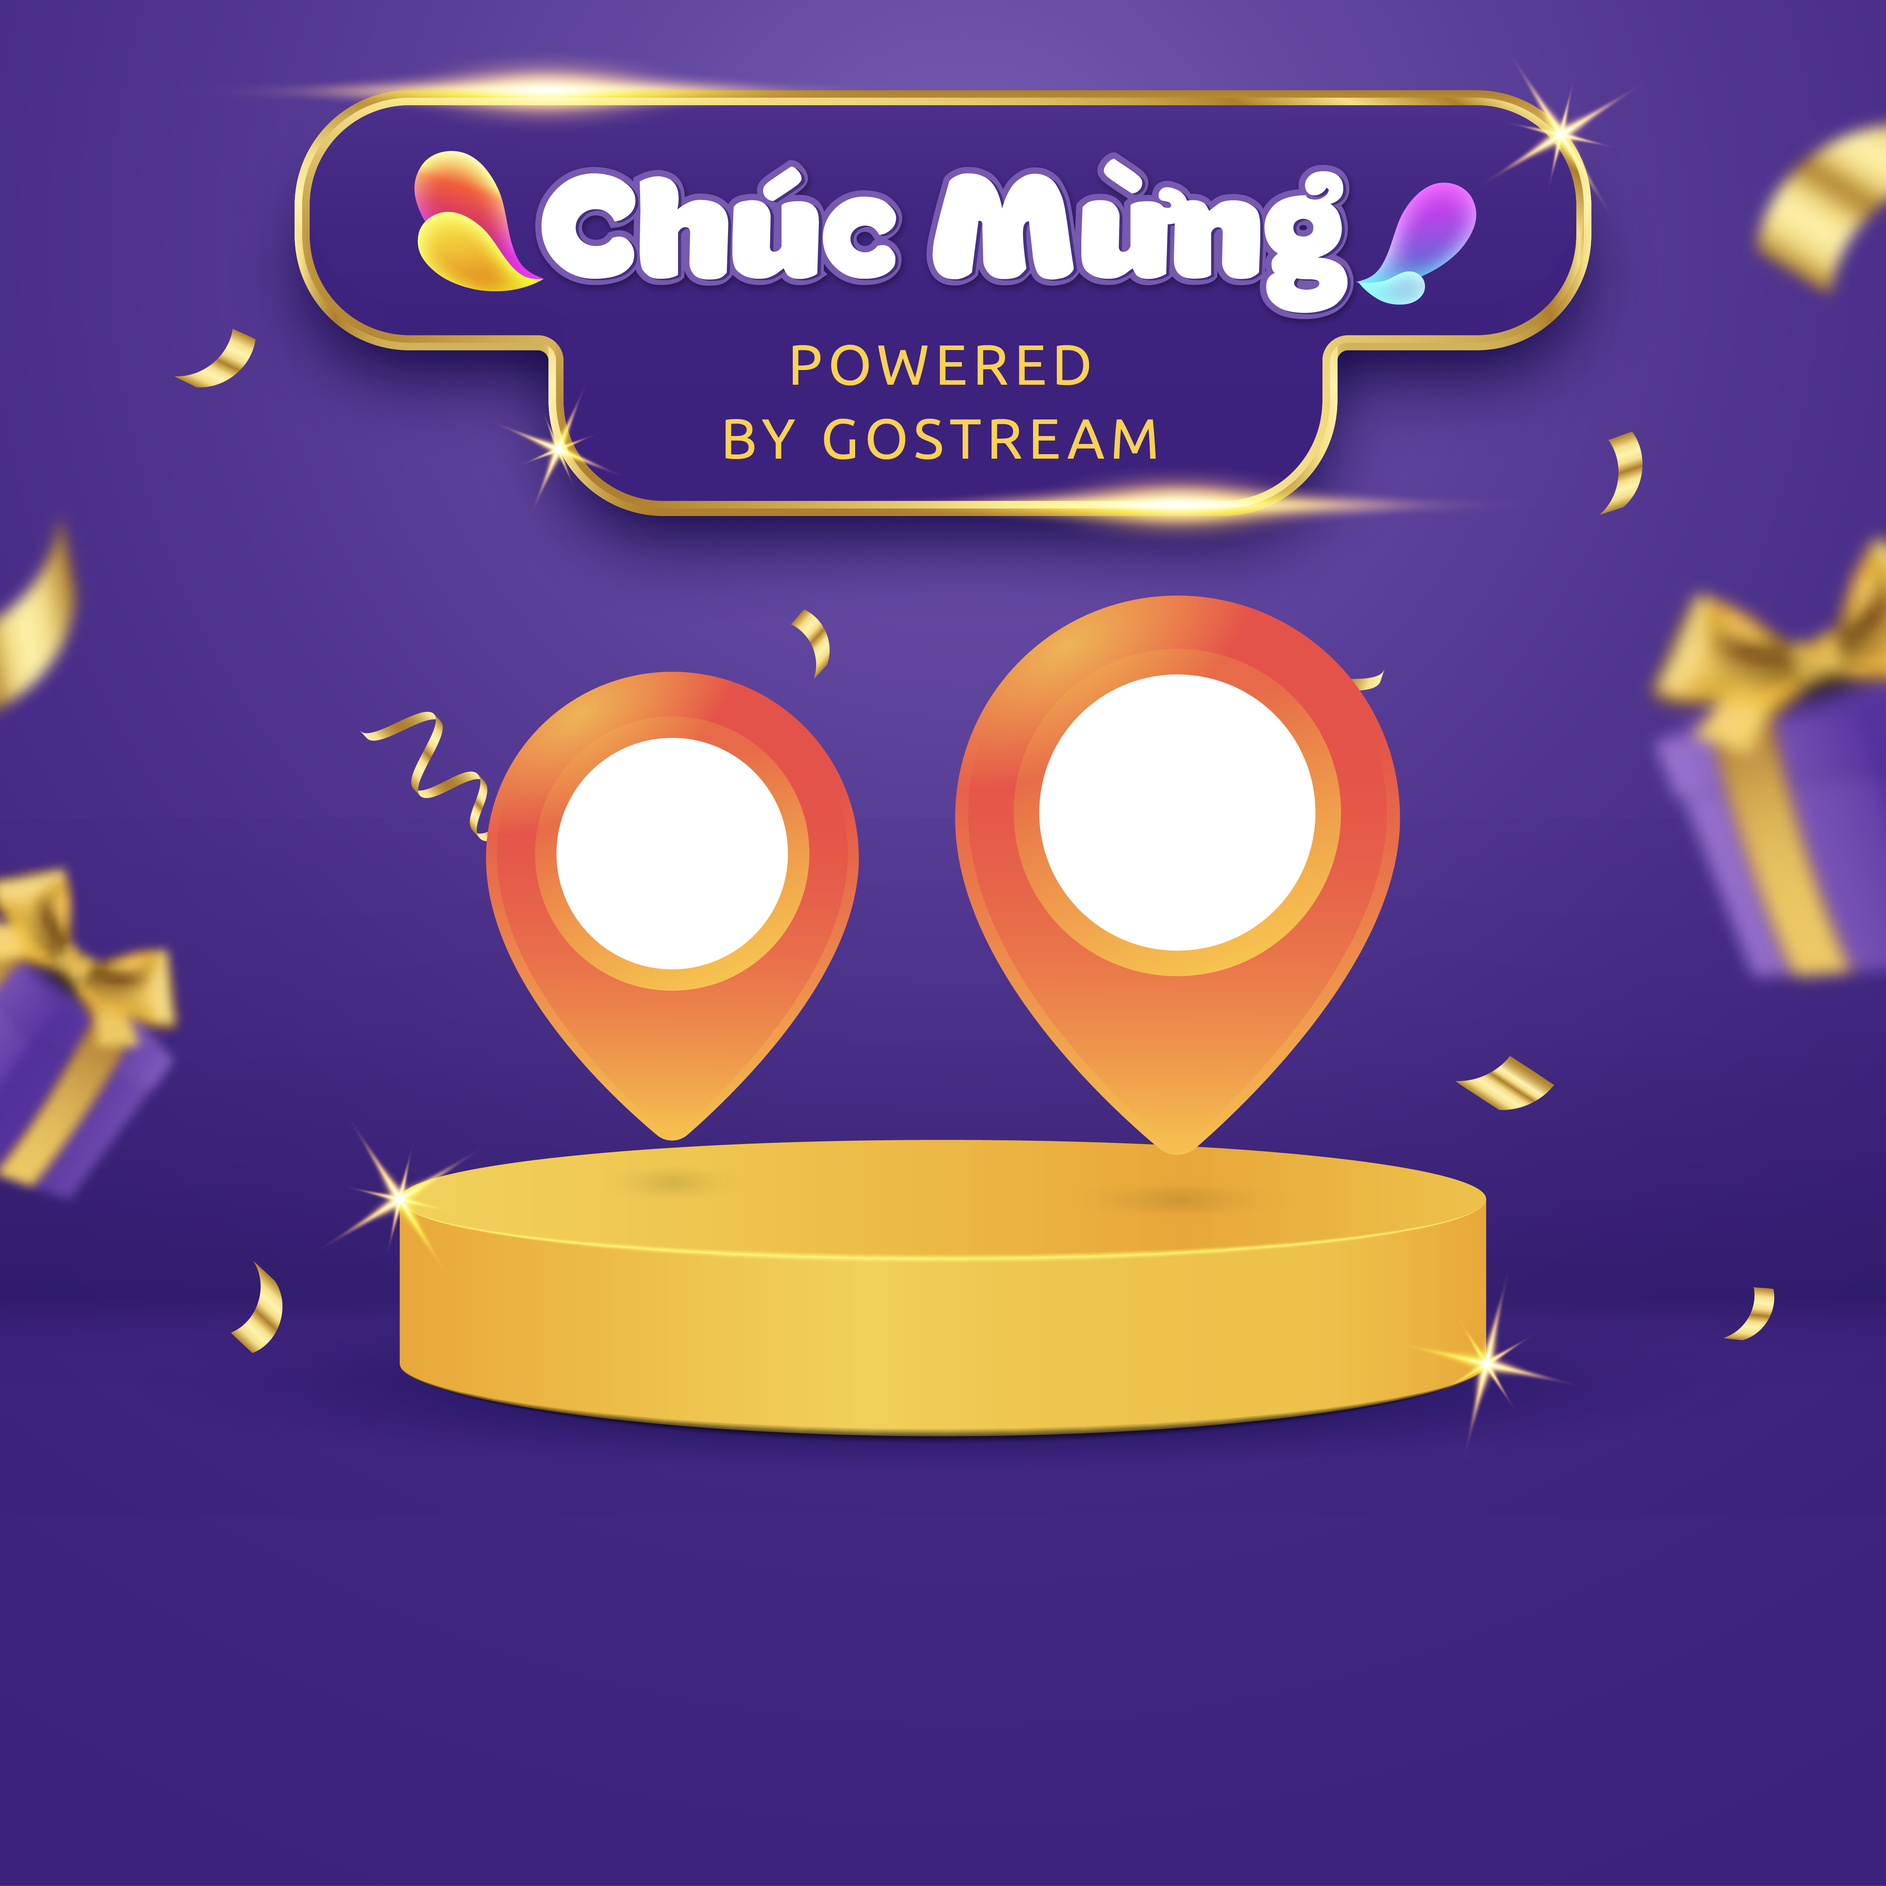
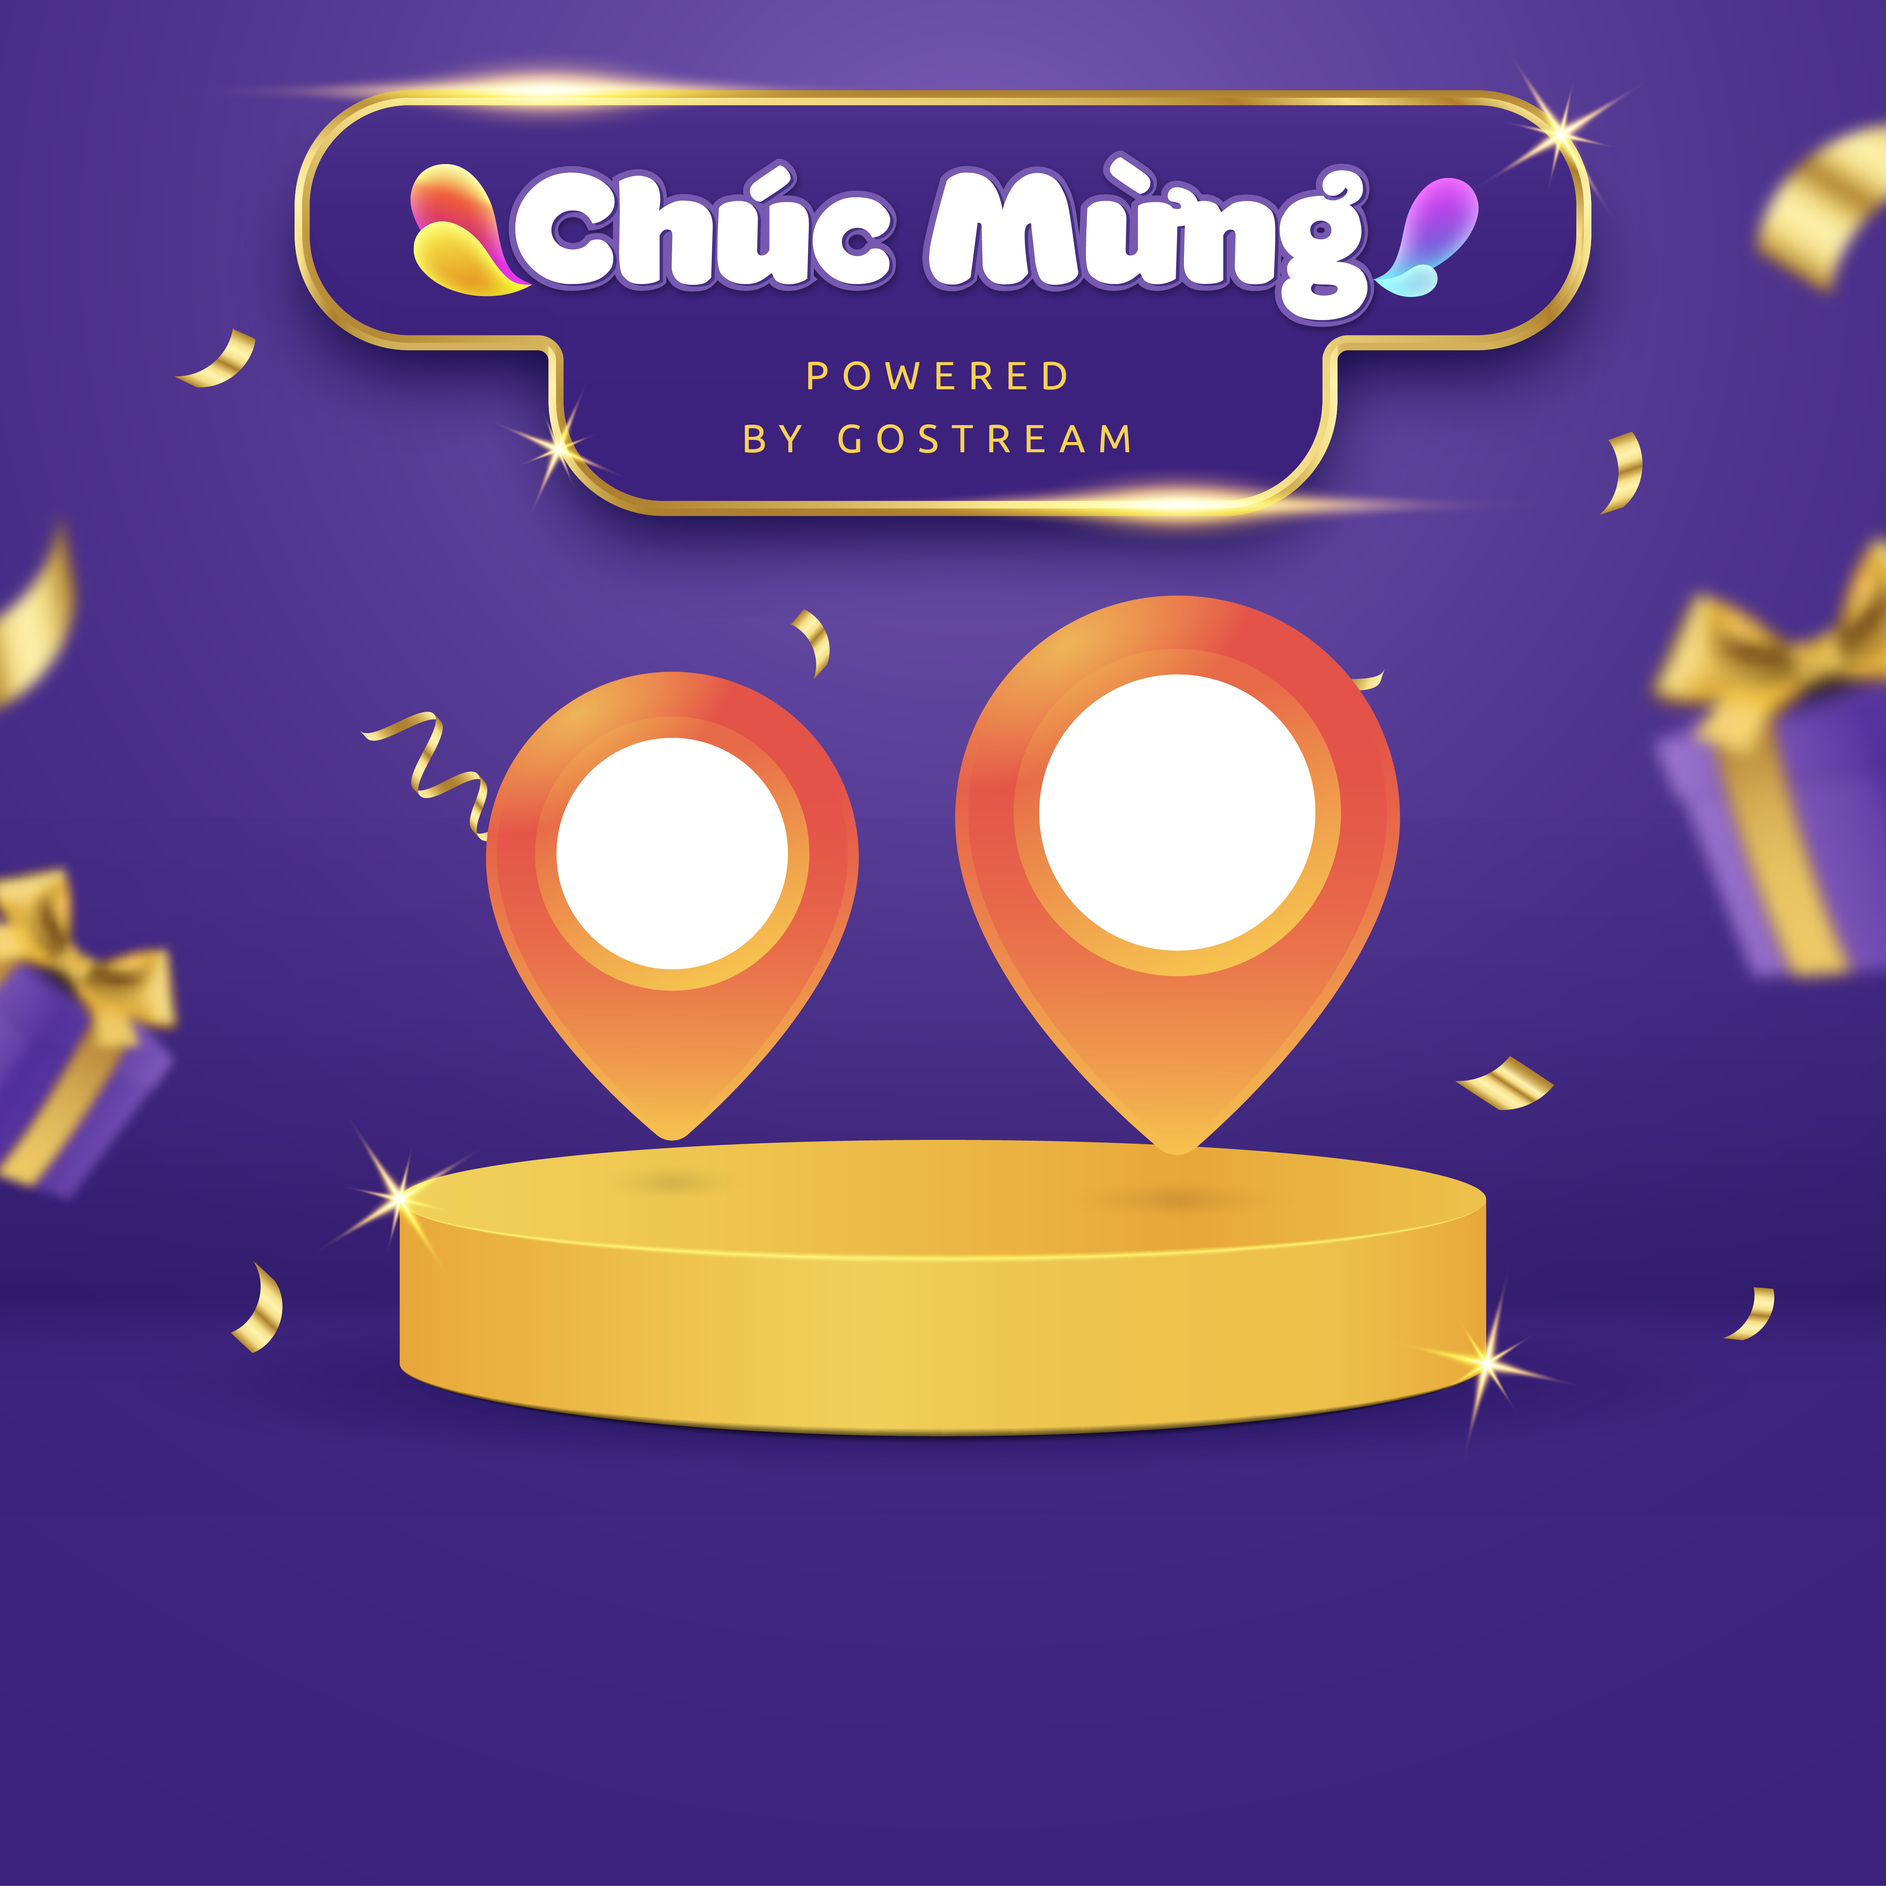
Sửa hình ảnh, disable chức năng chat, add login vue, fix command point null,

Changed region(s): [[0.2184, 0.0624, 0.78, 0.1872], [0.3744, 0.1872, 0.624, 0.2496]]

diff --git a/vueclient/src/components/login/LoginA.vue b/vueclient/src/components/login/LoginA.vue
@@ -1,0 +1,104 @@
+<template>
+  <div>
+    <div class='full py-5'>
+            <div class="container">
+                <div class="row gy-5 justify-content-center py-5 headT ">
+                    <div class="col-md-7 shadow p-3 mb-5 bg-white rounded">
+                        <div class="card border border-success border-radius">
+                            <div class="card-header text-center m-3 h2 fw-bold">ĐĂNG NHẬP</div>
+                            <div class="card-body p-5">
+                                <div>
+                                    <div class="row mb-3">
+                                        <label class="col-md-4 col-form-label text-md-end">username</label>
+                                        <div class="col-md-6">
+                                            <input id="name" type="name" class="form-control" name="username" v-model="username" @keyup.enter="login()" />
+                                        </div>
+                                    </div>
+                                    <div class="row mb-3">
+                                        <label class="col-md-4 col-form-label text-md-end">password</label>
+                                        <div class="col-md-6">
+                                            <input id="password" type="password" class="form-control" name="password" v-model="password" @keyup.enter="login()" />
+                                        </div>
+                                    </div>
+                                    <div class="row mb-3">
+                                        <div class="col-md-6 offset-md-4">
+                                            <div class="form-check">
+                                                <input class="form-check-input" type="checkbox" name="remember" id="remember" />
+                                                <label class="form-check-label">
+                                                    Remember Me
+                                                </label>
+                                            </div>
+                                        </div>
+                                    </div>
+                                    <div class="row mb-0">
+                                        <div class="col-md-8 offset-md-4">
+                                            <button type="submit" class="btn btn-outline-success" @click="login()">
+                                                Đăng Nhập
+                                            </button>
+                                        </div>
+                                    </div>
+                                </div>
+                            </div>
+                        </div>
+                    </div>
+                </div >
+            </div >
+        </div>
+  </div>
+</template>
+
+<script>
+import axios from 'axios'
+export default {
+    data(){
+        return{
+            username : '',
+            password :'',
+            url :process.env.VUE_APP_URL
+        }
+    },
+    methods:{
+        async login(){
+            if(this.username === ''||this.password ===''){
+                alert('Vui lòng nhập tất cả các trường !!!')
+                return 0
+            }
+            let data1 = await axios.post(`${this.url}/account/login`,{
+                username : this.username,
+                password: this.password
+            })
+            
+            if(data1.data.status=== false){
+                alert('Sai Tài Khoản Hoặc Mật Khẩu !!!!')
+                this.username =''
+                this.password = ''
+            }else{
+                this.$cookies.set('token',data1.data.token)
+                this.$router.push('/admin')
+            }
+        }
+    },
+
+}
+</script>
+
+<style scoped>
+@import url('https://fonts.googleapis.com/css2?family=Quicksand:wght@500&display=swap');
+.full {
+    background-image: url(./bg.jpg);
+    background-repeat: no-repeat;
+    background-size: 100%;
+    font-family: 'Quicksand';
+    height: 100vh;
+    overflow: auto;
+}
+.headT {
+    background: inherit;
+    margin-top: 7em;
+
+}
+.Mcard {
+    box-shadow: rgba(0, 0, 0, 0.25) 0px 14px 28px, rgba(0, 0, 0, 0.22) 0px 10px 10px;
+}
+
+</style>

diff --git a/backend/controller/admin.js b/backend/controller/admin.js
@@ -5,7 +5,6 @@ class Admin {
     //user
     async getUser(req, res) {
         let { page, limit } = req.query
-
         const data = await userModel.find().skip((limit * page) - limit).limit(limit)
         const total = await userModel.find().count()
         if (data) {
@@ -20,37 +19,6 @@ class Admin {
             })
         }
     }
-
-    async getOneUserByUserName(req, res) {
-        let userName = req.params.userName
-        const data = await userModel.findOne({ userName: userName })
-        if (data) {
-            res.json({
-                success: true,
-                data: data
-            })
-        } else {
-            res.json({
-                success: false,
-            })
-        }
-
-    }
-
-    async getAllUser(req, res) {
-        const data = await userModel.find()
-        if (data) {
-            res.json({
-                success: true,
-                data: data
-            })
-        } else {
-            res.json({
-                success: false,
-            })
-        }
-    }
-
     async updateUser(req, res) {
         let id = req.body._id
         let fromId = req.body.fromId
@@ -80,7 +48,6 @@ class Admin {
         }
 
     }
-
     async deleteUser(req, res) {
         let id = req.params.id
         await userModel.deleteOne({ _id: id })
@@ -88,32 +55,6 @@ class Admin {
             success: true
         })
     }
-
-    async createUser(req, res) {
-        let fromId = 222222228
-        let firstName = 'test 08'
-        let lastName = 'test 08'
-        let userName = 'test08'
-        let point = 10
-        const data = await userModel.create({
-            fromId: fromId,
-            firstName: firstName,
-            lastName: lastName,
-            userName: userName,
-            point: point
-        })
-        if (data) {
-            res.json({
-                success: true,
-                data: data
-            })
-        } else {
-            res.json({
-                success: false,
-            })
-        }
-    }
-
     async getCharUser(req, res) {
 
         const data = await userModel.aggregate([
@@ -143,7 +84,6 @@ class Admin {
             })
         }
     }
-
     async findModeTableUser(req, res) {
         let { key, page, limit } = req.query
         let data
@@ -181,7 +121,6 @@ class Admin {
             })
         }
     }
-
     //point
     async getChartPoint(req, res) {
         const data = await userModel.find({}, {
@@ -201,7 +140,6 @@ class Admin {
         }
 
     }
-
     async getPointMessage(req, res) {
         let { page, limit } = req.query
         const datas = await pointMessageModel.find().skip((limit * page) - limit).sort({ date: -1 }).limit(limit)
@@ -262,10 +200,6 @@ class Admin {
             })
         }
     }
-
-
-
-
 
 }
 

diff --git a/backend/utils/handlePhoto.js b/backend/utils/handlePhoto.js
@@ -315,7 +315,7 @@ class Photo {
                         font-family: font, fallBackFonts, sans-serif;
                     }
                     .title2 { fill: #ffff; font-size: 170px;}
-                    .title3 { fill: #fde047; font-size: 120px; font-weight: bold;}
+                    .title3 { fill: #FFF810; font-size: 120px; font-weight: bold;}
                     .title4 { fill: #ffff; font-size: 200px; font-weight: bold;}
                     .tspan1 { fill: #ffff; font-size: 230px; font-weight: bold;}
                     .tspan2 { fill: #ffff; font-size: 200px; font-weight: bold;}
@@ -396,7 +396,7 @@ class Photo {
                         font-family: font, fallBackFonts, sans-serif;
                     }
                     .title2 { fill: #ffff; font-size: 170px;}
-                    .title3 { fill: #b91c1c; font-size: 120px; font-weight: bold;}
+                    .title3 { fill: #BC5404; font-size: 120px; font-weight: bold;}
                     .title4 { fill: #ffff; font-size: 200px; font-weight: bold;}
                     .tspan1 { fill: #ffff; font-size: 230px; font-weight: bold;}
                     .tspan2 { fill: #ffff; font-size: 200px; font-weight: bold;}
@@ -429,7 +429,6 @@ class Photo {
     async randomPhoto(fromIdSend, fromIdReceive, userNameReceive, pointChange, pointMessage, date) {
         let func = [0, 1, 2, 3, 4]
         let random = Math.floor(Math.random() * func.length)
-        console.log(random, func[random])
         if (func[random] === 0) {
             await this.mergeText1(fromIdSend, fromIdReceive, userNameReceive, pointChange, pointMessage, date)
         } else if (func[random] === 1) {

diff --git a/backend/controller/handleCommand.js b/backend/controller/handleCommand.js
@@ -133,7 +133,10 @@ class HandleCommand {
             let pData = await userModel.find().sort({ point: -1 }).limit(10)
             let text = '<b>Danh Sách Điểm Các Thành Viên</b>\n\n '
             for (const index of pData) {
-                text = text + `<b><i>${index.userName}</i></b>` + " - " + index.firstName + " : <b>" + index.point + "</b>\n"
+                let text1 = index.userName ? ` <b><i>${index.userName}</i></b>` + " - " : ''
+                let text2 = index.firstName ? ` <b><i>${index.firstName}</i></b>` + " - " : ''
+                let text3 = index.lastName ? ` <b><i>${index.lastName}</i></b>` + " - " : ''
+                text = text + text1 + text2 + text3 + " : <b>" + index.point + "</b>\n"
             }
             this.sendText(text, chatId)
         } else {
@@ -246,7 +249,6 @@ class HandleCommand {
     }
     async handleWeatherCommand(text, chatId) {
         let [weatherCommand, ...location] = text.split(' ')
-        console.log(location)
         const weatherAppid = 'b1ac492954c5e04bdb2ff86ca85b8de7';
         if (location.length !== 0) {
             location = encodeURI(location.join(' '));

diff --git a/backend/router/admin.js b/backend/router/admin.js
@@ -4,8 +4,6 @@ const adminController = require('../controller/admin')
 
 //user
 Route.get('/getUser', adminController.getUser)
-Route.get('/getOneUserByUserName/:userName', adminController.getOneUserByUserName)
-Route.get('/getAllUser', adminController.getAllUser)
 Route.get('/getChartUser', adminController.getCharUser)
 Route.get('/findModeTableUser/', adminController.findModeTableUser)
 Route.post('/updateUser', adminController.updateUser)
@@ -14,10 +12,6 @@ Route.get('/getChartPoint', adminController.getChartPoint)
 Route.get('/getPointMessage/', adminController.getPointMessage)
 //dashboard
 Route.get('/getChartUserWithTime/', adminController.getChartUserWithTime)
-
-//test
-Route.get('/create', adminController.createUser)
-
 
 
 module.exports = Route

diff --git a/vueclient/src/router/index.js b/vueclient/src/router/index.js
@@ -6,14 +6,14 @@ import PointAdmin from '../components/admin/point/PointAdmin.vue'
 import UserAdmin from '../components/admin/user/UserAdmin.vue'
 import DashBoard from '../components/admin/dashboard/DashBoard.vue'
 
-import DashboardCp from '../components/Home/DashboardCp.vue'
+import Login from '../components/login/LoginA.vue'
 
 Vue.use(Router)
 const router = new Router({
     routes: [
         {
             path: '/',
-            component: DashboardCp
+            component: Login
 
         }, {
             path: '/admin',

diff --git a/backend/service/websocket.js b/backend/service/websocket.js
@@ -29,9 +29,7 @@ function websocket() {
     }
     io.on('connection', async (socket) => {
         socket.on('chatId', async (data) => {
-            console.log('User connect : ', socket.id)
             autoEmit(socket, data)
-
         })
         socket.on('disconnect', () => {
             console.log(`User disconnect : ${socket.id}`)

diff --git a/vueclient/src/main.js b/vueclient/src/main.js
@@ -2,11 +2,12 @@ import Vue from 'vue'
 import App from './App.vue'
 import router from './router/index.js'
 import ElementUI from 'element-ui';
+import VueCookies from 'vue-cookies';
 import 'element-ui/lib/theme-chalk/index.css';
 
 
 Vue.config.productionTip = false
-
+Vue.use(VueCookies, { expire: '1d' })
 Vue.use(ElementUI)
 
 new Vue({

diff --git a/vueclient/src/components/admin/AdminCp.vue b/vueclient/src/components/admin/AdminCp.vue
@@ -25,8 +25,14 @@ export default {
   components:{
     SideBar,
     //PointAdmin
+  },
+  created(){
+    
+    if(this.$cookies.get('token') === null){
+        alert('Vui Lòng Đăng Nhập !!!')
+        window.location.href =process.env.VUE_APP_URL_CLIENT  
+    }
   }
-
 }
 </script>
 
